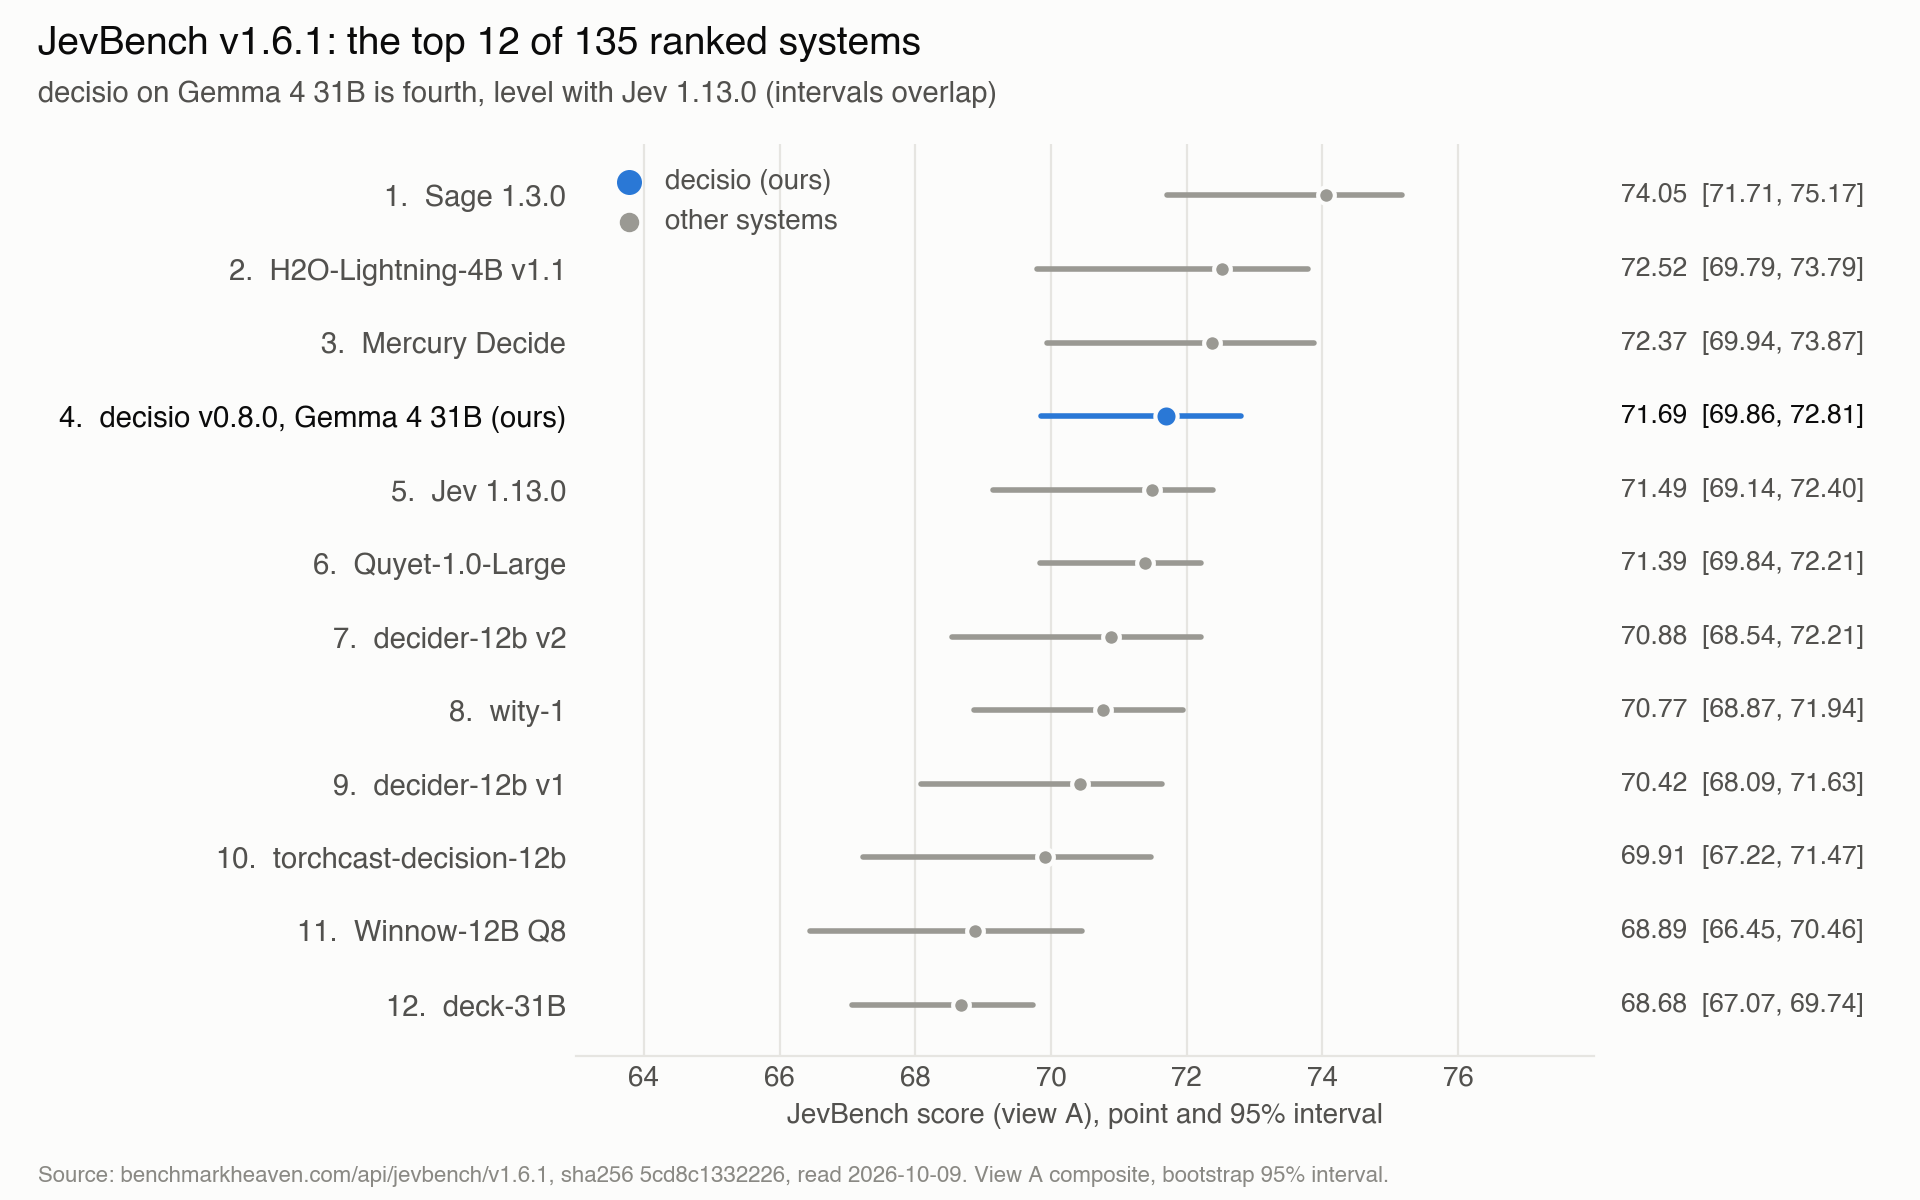
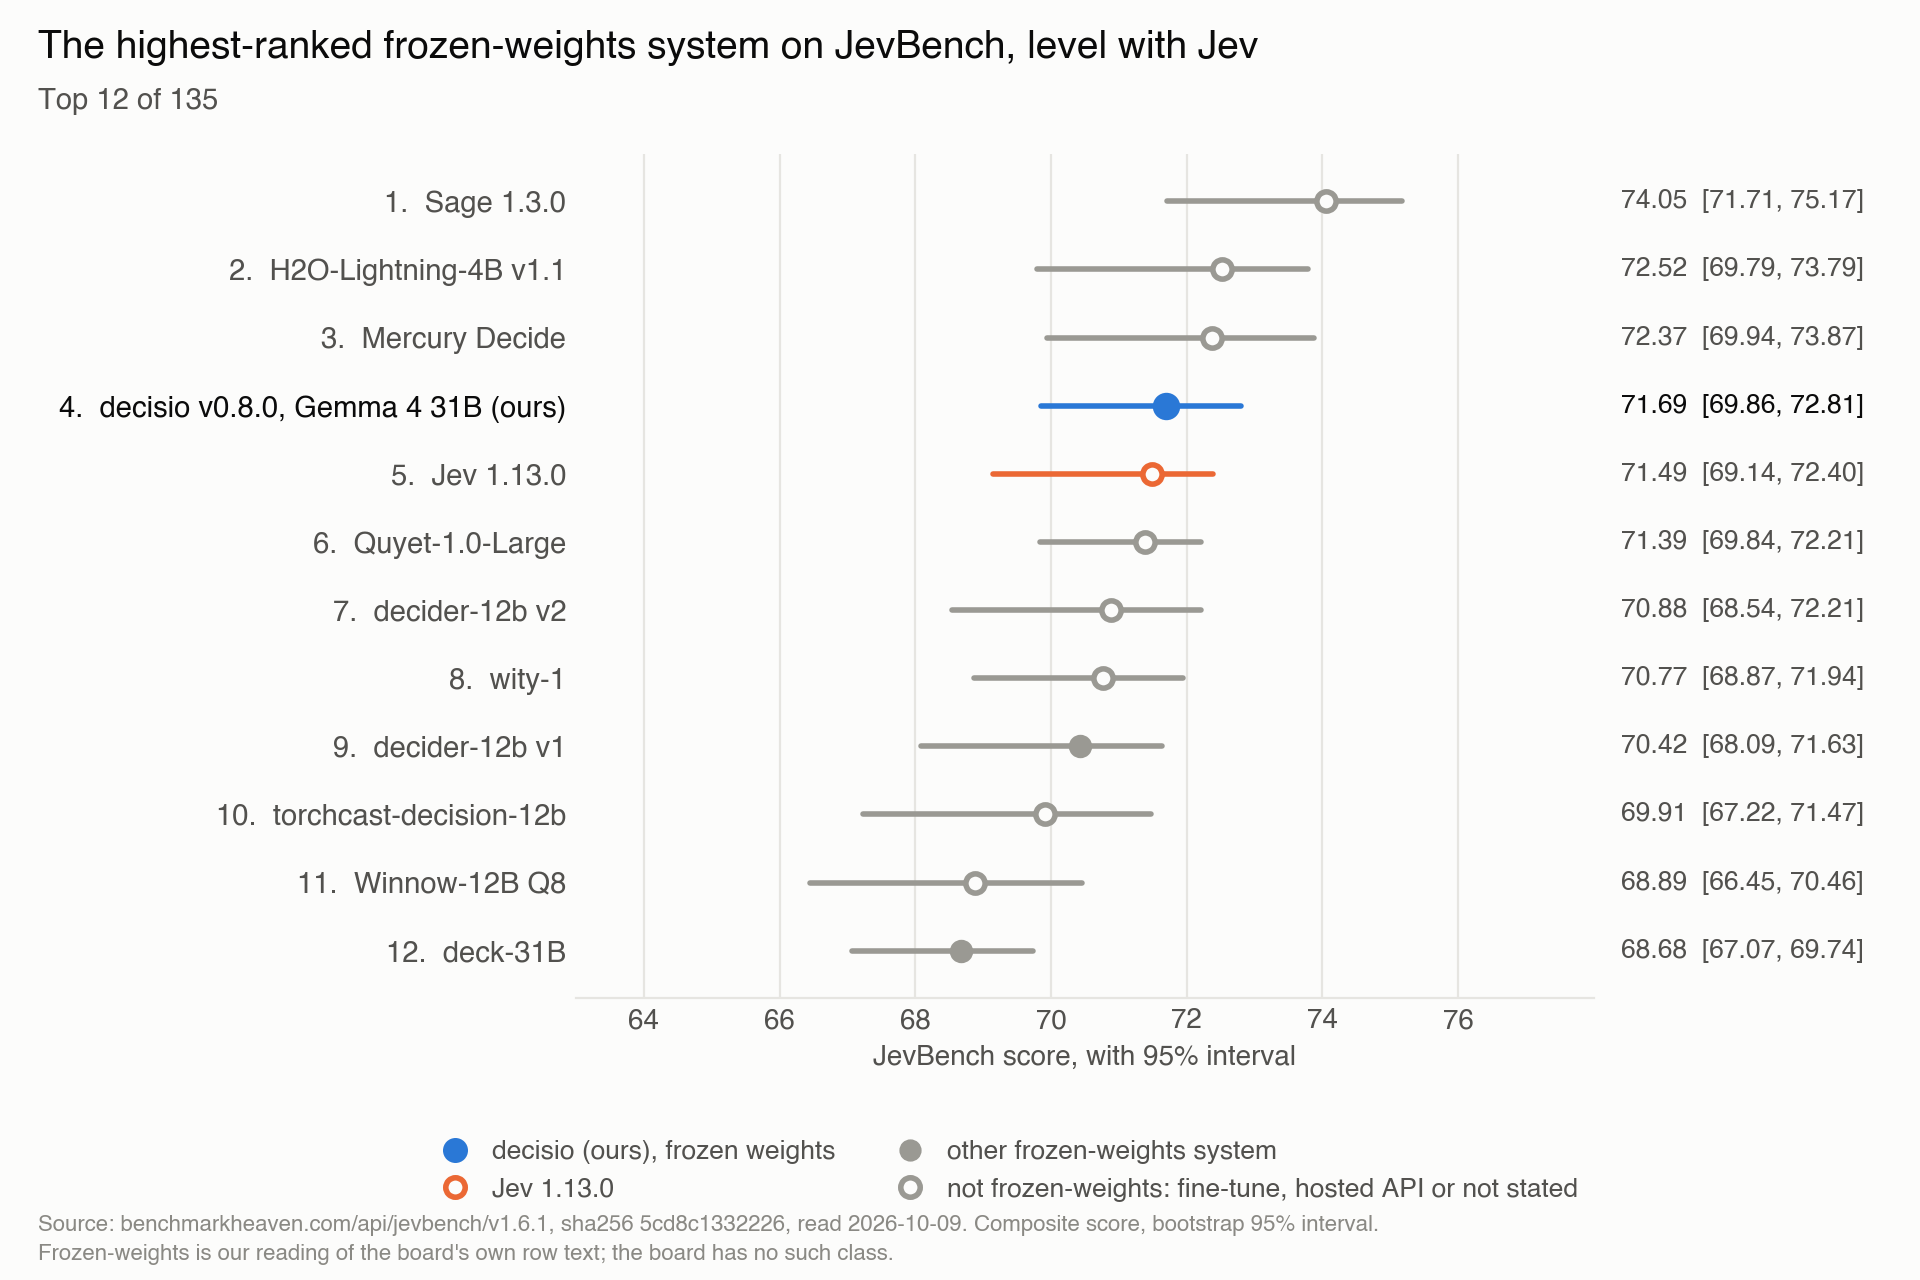
docs: the README's Ollama sentence states the measured size, the speed claim is gone, and Lab 1's updated charts are in
8.6 GB in Ollama on a 64 GB Mac, so it should fit a 16 GB laptop; the 'about a minute' line is removed (Lab 2 measures start times); jevbench_top12 now carries the claim in its title with Jev in its own colour and frozen-weights markers, light and dark; four_axes and sealed_vs_open sit under How we read the board.

diff --git a/README.md b/README.md
@@ -12,7 +12,10 @@
 > **The highest-ranked frozen-weights system on JevBench, fourth of 135 and level with Jev.**
 > ([JevBench v1.6.1](https://benchmarkheaven.com/api/jevbench/v1.6.1), decisio on Gemma 4 31B; [how we read the board](#how-we-read-the-board).)
 
-![JevBench v1.6.1: the top 12 of 135 ranked systems, decisio on Gemma 4 31B highlighted](docs/launch/jevbench_top12.png)
+<picture>
+  <source media="(prefers-color-scheme: dark)" srcset="docs/launch/jevbench_top12_dark.png">
+  <img src="docs/launch/jevbench_top12.png" alt="JevBench v1.6.1: the top 12 of 135 ranked systems; decisio on Gemma 4 31B is the highest-ranked frozen-weights system, fourth, level with Jev">
+</picture>
 
 <!-- Advocacy's demo reel goes here once it exists. -->
 
@@ -26,11 +29,11 @@
 
 ## Quickstart
 
-Ollama on a laptop, then pip on a GPU, then Docker. Each takes about a minute once its download is done.
+Ollama on a laptop, then pip on a GPU, then Docker.
 
 ### On a laptop, with Ollama
 
-A 16 GB laptop is enough ([docs/running.md](docs/running.md#ollama)):
+The Gemma listing's smallest tag takes 8.6 GB in Ollama (measured on a 64 GB Mac), so it should fit a 16 GB laptop ([docs/running.md](docs/running.md#ollama)):
 
 ```bash
 ollama pull aminroudaki/decisio-gemma      # Gemma 4 12B, 8.6 GB in Ollama at its smallest tag
@@ -464,7 +467,19 @@ Calibration on JevBench, as ECE on the standard and hard tiers: 0.121 and 0.043 
 
 ### How we read the board
 
-- **Source.** The figures are the board's, from its published file for [JevBench v1.6.1](https://benchmarkheaven.com/api/jevbench/v1.6.1) (sha256 `5cd8c1332226...`, read 2026-10-09), row `decisio-gemma-4-31b-v080`; the charts ([top 12](docs/launch/jevbench_top12.png), [four axes](docs/launch/four_axes.png)) are drawn from that file, view A.
+<picture>
+  <source media="(prefers-color-scheme: dark)" srcset="docs/launch/four_axes_dark.png">
+  <img src="docs/launch/four_axes.png" alt="JevBench v1.6.1: the four axes, decisio on Gemma 4 31B against Jev 1.13.0, H2O-Lightning-4B and Quyet-1.0-Large">
+</picture>
+
+<picture>
+  <source media="(prefers-color-scheme: dark)" srcset="docs/launch/sealed_vs_open_dark.png">
+  <img src="docs/launch/sealed_vs_open.png" alt="decisio's JevBench score on the sealed items and on the open ones">
+</picture>
+
+Decisio scores higher on the sealed items than on the open ones.
+
+- **Source.** The figures are the board's, from its published file for [JevBench v1.6.1](https://benchmarkheaven.com/api/jevbench/v1.6.1) (sha256 `5cd8c1332226...`, read 2026-10-09), row `decisio-gemma-4-31b-v080`; the charts are drawn from that file, view A.
 - **Frozen weights.** The board has no frozen-weights class. We count a row as frozen when its display text says so (or says stock Gemma or Qwen) and names no LoRA, fine-tune, merge, training, adapter, head or decoder. The claim is about rank: decisio's row is the highest-ranked of those, fourth of 135 on the headline composite (third on view B, fourth on view C).
 - **Level with Jev.** Our interval (69.86 to 72.81) and Jev 1.13.0's (69.14 to 72.40) overlap; the scores are 71.69 and 71.49.
 - **Intervals.** Two other frozen-weights rows have intervals that overlap ours, decider-12b-v1 (rank 9) and Cygnet (rank 13); deck-31B (rank 12) does not.
